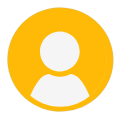
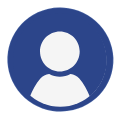
Updated Home Page
Updated Home Page to pull the data from Firestore and order the data by date.

diff --git a/lib/screens/home/home_list.dart b/lib/screens/home/home_list.dart
@@ -12,8 +12,10 @@ class HomeList extends GetView<HomeController> {
   const HomeList({super.key});
 
   Widget homeListItem(QueryDocumentSnapshot<ServiceData> item) {
-    return Container(
-      padding: EdgeInsets.only(top: 15.w),
+    return Card(
+      color: Colors.transparent,
+      elevation: 4, // Add elevation for a shadow effect
+      margin: const EdgeInsets.symmetric(vertical: 10, horizontal: 8), // Add margin around the card
       child: InkWell(
         onTap: () {
           
@@ -24,15 +26,8 @@ class HomeList extends GetView<HomeController> {
             borderRadius: BorderRadius.circular(10),
             border: Border.all(
               color: Colors.grey,
-              width: 0.1
-            ),
-            boxShadow: const [
-              BoxShadow(
-                color: Colors.black12,
-                blurRadius: 4,
-                spreadRadius: 2
-              )
-            ]
+              width: 0.2
+            )
           ),
           child: Column(
             children: [
@@ -48,7 +43,7 @@ class HomeList extends GetView<HomeController> {
                   child: Row(
                     children: [
                       Text(
-                        item.data().reqUsername ?? "",
+                        item.data().reqUsername ?? "Username",
                         style: const TextStyle(
                           fontSize: 16,
                           fontWeight: FontWeight.w500,
@@ -60,13 +55,13 @@ class HomeList extends GetView<HomeController> {
                         decoration: BoxDecoration(
                           color: Colors.white,
                           borderRadius: BorderRadius.circular(20),
-                          border: Border.all(color: Colors.amber)
+                          border: Border.all(color: AppColor.secondaryColor)
                         ),
                         child: Row(
                           mainAxisSize: MainAxisSize.min,
                           children: [
                             Text(
-                              "\$${item.data().rate?.toString() ?? "0"}/h",
+                              "4.5",
                               style: const TextStyle(
                                 fontSize: 14,
                                 fontWeight: FontWeight.bold,
@@ -86,7 +81,7 @@ class HomeList extends GetView<HomeController> {
                   ), 
                 ),
                 subtitle: Text(
-                  item.data().date ?? ""
+                  "${item.data().date}, ${item.data().time}"
                 ),
               ),
               // Location Icon

diff --git a/lib/screens/home/home_controller.dart b/lib/screens/home/home_controller.dart
@@ -16,7 +16,7 @@ class HomeController extends GetxController {
     initialRefresh: true
   );
 
-  //The dependency requires this 2 functions to work
+  //The pull_to_refresh dependency requires this 2 functions to work
   void onRefresh() {
     asyncLoadAllData().then((_){
       refreshController.refreshCompleted(resetFooterState: true);
@@ -35,15 +35,53 @@ class HomeController extends GetxController {
   //
 
   asyncLoadAllData() async {
-    var reqServices = await db.collection("service").withConverter(
+    try {
+      var reqServices = await db.collection("service").withConverter(
       fromFirestore: ServiceData.fromFirestore, 
       toFirestore: (ServiceData serviceData, options) => serviceData.toFirestore()
-    ).where("requester_uid", isNotEqualTo: token).get();
+      ).where("requester_uid", isNotEqualTo: token)  // Make sure the field matches the orderBy field
+      .where("status", isEqualTo: "Requested").get();
+      
+      List<QueryDocumentSnapshot<ServiceData>> documents = reqServices.docs;
 
-    state.serviceList.clear();
+      // Sort the documents based on date and time
+      documents.sort((a, b) {
+        DateTime dateTimeA = combineDateTime(a.data().date!, a.data().time!);
+        DateTime dateTimeB = combineDateTime(b.data().date!, b.data().time!);
+        
+        return dateTimeA.compareTo(dateTimeB);
+      });
 
-    if(reqServices.docs.isNotEmpty) {
-      state.serviceList.assignAll(reqServices.docs);
-    } 
+      // Now use the sorted documents for display
+      state.serviceList.assignAll(documents);
+    }
+    catch(e) {
+      print("Error fetching: $e");
+    }
+  }
+
+  DateTime combineDateTime(String dateString, String timeString) {
+    // Parse the date and time strings
+    DateTime date = DateTime.parse(dateString);
+    DateTime time = parseTime(timeString);
+
+    // Combine date and time into a single DateTime object
+    return DateTime(date.year, date.month, date.day, time.hour, time.minute);
+  }
+
+  DateTime parseTime(String timeString) {
+    // Split the time string into hours, minutes, and AM/PM parts
+    List<String> parts = timeString.split(' ');
+    List<String> timeParts = parts[0].split(':');
+    int hours = int.parse(timeParts[0]);
+    int minutes = int.parse(timeParts[1]);
+
+    // Adjust hours if it's PM
+    if (parts[1] == 'PM' && hours < 12) {
+      hours += 12;
+    }
+
+    // Construct and return the DateTime object using the correct year from the date
+    return DateTime(DateTime.now().year, 1, 1, hours, minutes);
   }
 }

diff --git a/lib/screens/navbar/navbar_view.dart b/lib/screens/navbar/navbar_view.dart
@@ -1,6 +1,7 @@
 //Navbar View
 import 'package:flutter/material.dart';
 import 'package:get/get.dart';
+import 'package:isp_application/common/values/color.dart';
 
 import '../../common/storage/storage.dart';
 import '../home/home_index.dart';
@@ -32,6 +33,7 @@ class NavbarPage extends GetView<NavbarController> {
     Widget buildBottomNavigationBar() { 
       return BottomAppBar(
         shape: const CircularNotchedRectangle(),
+        color: Colors.white,
         notchMargin: 10.0,
         child: Row(
           mainAxisSize: MainAxisSize.max,
@@ -40,14 +42,14 @@ class NavbarPage extends GetView<NavbarController> {
             IconButton(
               icon: Obx(() => Icon(
                 Icons.home,
-                color: controller.state.page == 0 ? Colors.amber : Colors.black45,
+                color: controller.state.page == 0 ? AppColor.secondaryColor : Colors.black45,
               )),
               onPressed: () => controller.handleNavBarTap(0),
             ),
             IconButton(
               icon: Obx(() => Icon(
                 Icons.calendar_month,
-                color: controller.state.page == 1 ? Colors.amber : Colors.black45,
+                color: controller.state.page == 1 ? AppColor.secondaryColor : Colors.black45,
               )),
               onPressed: () => controller.handleNavBarTap(1),
             ),
@@ -55,14 +57,14 @@ class NavbarPage extends GetView<NavbarController> {
             IconButton(
               icon: Obx(() => Icon(
                 Icons.message,
-                color: controller.state.page == 2 ? Colors.amber : Colors.black45,
+                color: controller.state.page == 2 ? AppColor.secondaryColor : Colors.black45,
               )),
               onPressed: () => controller.handleNavBarTap(2),
             ),
             IconButton(
               icon: Obx(() => Icon(
                 Icons.person,
-                color: controller.state.page == 3 ? Colors.amber : Colors.black45,
+                color: controller.state.page == 3 ? AppColor.secondaryColor : Colors.black45,
               )),
               onPressed: () => controller.handleNavBarTap(3),
             ),

diff --git a/lib/common/routes/pages.dart b/lib/common/routes/pages.dart
@@ -13,33 +13,37 @@ class AppPages {
   static const initial = AppRoutes.welcome;
   static const navbar = AppRoutes.navbar;
   static final RouteObserver<Route> observer =
-      RouteObservers(); //Observers.dart
+  RouteObservers(); //Observers.dart
   static List<String> history = [];
 
   static final List<GetPage> routes = [
     //Welcome Page
     GetPage(
-        name: AppRoutes.welcome,
-        page: () => const WelcomePage(),
-        binding: WelcomeBinding(),
-        middlewares: [
-          //Redirect user directly to navbar
-          RouteWelcomeMiddleware(priority: 1)
-        ]),
+      name: AppRoutes.welcome,
+      page: () => const WelcomePage(),
+      binding: WelcomeBinding(),
+      middlewares: [
+        //Redirect user directly to navbar
+        RouteWelcomeMiddleware(priority: 1)
+      ]
+    ),
     //Navbar Page
     GetPage(
-        name: AppRoutes.navbar,
-        page: () => NavbarPage(),
-        binding: NavbarBinding()),
+      name: AppRoutes.navbar,
+      page: () => NavbarPage(),
+      binding: NavbarBinding()
+    ),
     //Login Page
     GetPage(
-        name: AppRoutes.login,
-        page: () => const LoginPage(),
-        binding: LoginBinding()),
+      name: AppRoutes.login,
+      page: () => const LoginPage(),
+      binding: LoginBinding()
+    ),
     //Register Page
     GetPage(
-        name: AppRoutes.register,
-        page: () => const RegisterPage(),
-        binding: RegisterBinding()),
+      name: AppRoutes.register,
+      page: () => const RegisterPage(),
+      binding: RegisterBinding()
+    ),
   ];
 }

diff --git a/lib/screens/home/home_view.dart b/lib/screens/home/home_view.dart
@@ -24,9 +24,9 @@ class HomePage extends GetView<HomeController> {
       decoration: BoxDecoration(
         boxShadow: const [
           BoxShadow(
-            color: Color(0xFFE7EEF8),
+            color: Colors.black45,
             blurRadius: 1,
-            offset: Offset(2.6, 2.6)
+            offset: Offset(1.6, 1.6)
           )
         ],
         color: Colors.white,
@@ -66,19 +66,23 @@ class HomePage extends GetView<HomeController> {
   @override
   Widget build(BuildContext context) {
     return Scaffold(
+      backgroundColor: const Color(0xFFFCF2EB),
+      resizeToAvoidBottomInset: false,
       appBar: _buildAppBar(),
       body: Container(
-        padding: const EdgeInsets.all(20),
+        // color: Colors.amber,
+        height: 900,
+        padding: const EdgeInsets.only(top: 25, left: 25, right: 25),
         child: Column(
-          children: [
-            searchBar(),
-            const SizedBox(height: 15),
-            const SizedBox(
-              height: 440,
-              child: HomeList(),
-            )
-          ],
-        )
+            children: [
+              searchBar(),
+              const SizedBox(height: 10),
+              const SizedBox(
+                height: 470,
+                child: HomeList(),
+              )
+            ],
+          )
       )
     );
   }

diff --git a/lib/screens/request/request_controller.dart b/lib/screens/request/request_controller.dart
@@ -26,7 +26,6 @@ class RequestController extends GetxController {
     return serviceController.text.isNotEmpty &&
         descriptionController.text.isNotEmpty &&
         rateController.text.isNotEmpty &&
-        imageController.text.isNotEmpty &&
         locationController.text.isNotEmpty &&
         dateController.text.isNotEmpty &&
         timeController.text.isNotEmpty &&
@@ -368,7 +367,7 @@ class RequestController extends GetxController {
         serviceName: serviceController.text,
         description: descriptionController.text,
         rate: int.tryParse(rateController.text),
-        image: imgUrl,
+        image: imgUrl ?? "",
         location: locationController.text,
         date: dateController.text,
         time: timeController.text,

diff --git a/lib/screens/login/login_view.dart b/lib/screens/login/login_view.dart
@@ -1,13 +1,12 @@
 import 'package:flutter_screenutil/flutter_screenutil.dart';
-import 'package:isp_application/screens/login/login_controller.dart';
 import 'package:flutter/material.dart';
 import 'package:get/get.dart';
-import 'package:isp_application/screens/login/login_index.dart';
 
 import '../../common/values/values.dart';
 import '../../common/widgets/button.dart';
 import '../../common/widgets/textfield.dart';
 import '../register/register_index.dart';
+import 'login_index.dart';
 
 class LoginPage extends GetView<LoginController> {
   const LoginPage({super.key});

diff --git a/lib/screens/request/request_view.dart b/lib/screens/request/request_view.dart
@@ -3,10 +3,10 @@
 import 'package:flutter/material.dart';
 import 'package:flutter_screenutil/flutter_screenutil.dart';
 import 'package:get/get.dart';
-import 'package:isp_application/common/widgets/button.dart';
 import 'package:lottie/lottie.dart';
 
 import '../../common/values/values.dart';
+import '../../common/widgets/widgets.dart';
 import 'request_index.dart';
 
 class RequestPage extends GetView<RequestController> {

diff --git a/lib/screens/home/home_state.dart b/lib/screens/home/home_state.dart
@@ -1,7 +1,7 @@
 import 'package:cloud_firestore/cloud_firestore.dart';
 import 'package:get/get.dart';
 
-import '../../common/data/service.dart';
+import '../../common/data/data.dart';
 
 class HomeState {
   RxList<QueryDocumentSnapshot<ServiceData>> serviceList = <QueryDocumentSnapshot<ServiceData>>[].obs;

diff --git a/lib/common/values/color.dart b/lib/common/values/color.dart
@@ -1,7 +1,7 @@
 import 'package:flutter/material.dart';
-
+// ECDACE
 class AppColor {
-  static const Color secondaryColor = Color(0xFFFFBA08);
+  static const Color secondaryColor = Color(0xFF947C6C);
   
   static const Color secondaryText = Color(0xFF41403F);
 }

diff --git a/lib/main.dart b/lib/main.dart
@@ -37,7 +37,7 @@ class MyApp extends StatelessWidget {
         debugShowCheckedModeBanner: false,
         title: 'Flutter Demo',
         initialRoute: AppPages.initial,
-        getPages: AppPages.routes,
+        getPages: AppPages.routes
       )
     );
   }

diff --git a/lib/screens/home/home_index.dart b/lib/screens/home/home_index.dart
@@ -5,4 +5,4 @@ export 'home_controller.dart';
 export 'home_index.dart';
 export 'home_state.dart';
 export 'home_view.dart';
-export './home_list.dart';
+export 'home_list.dart';
